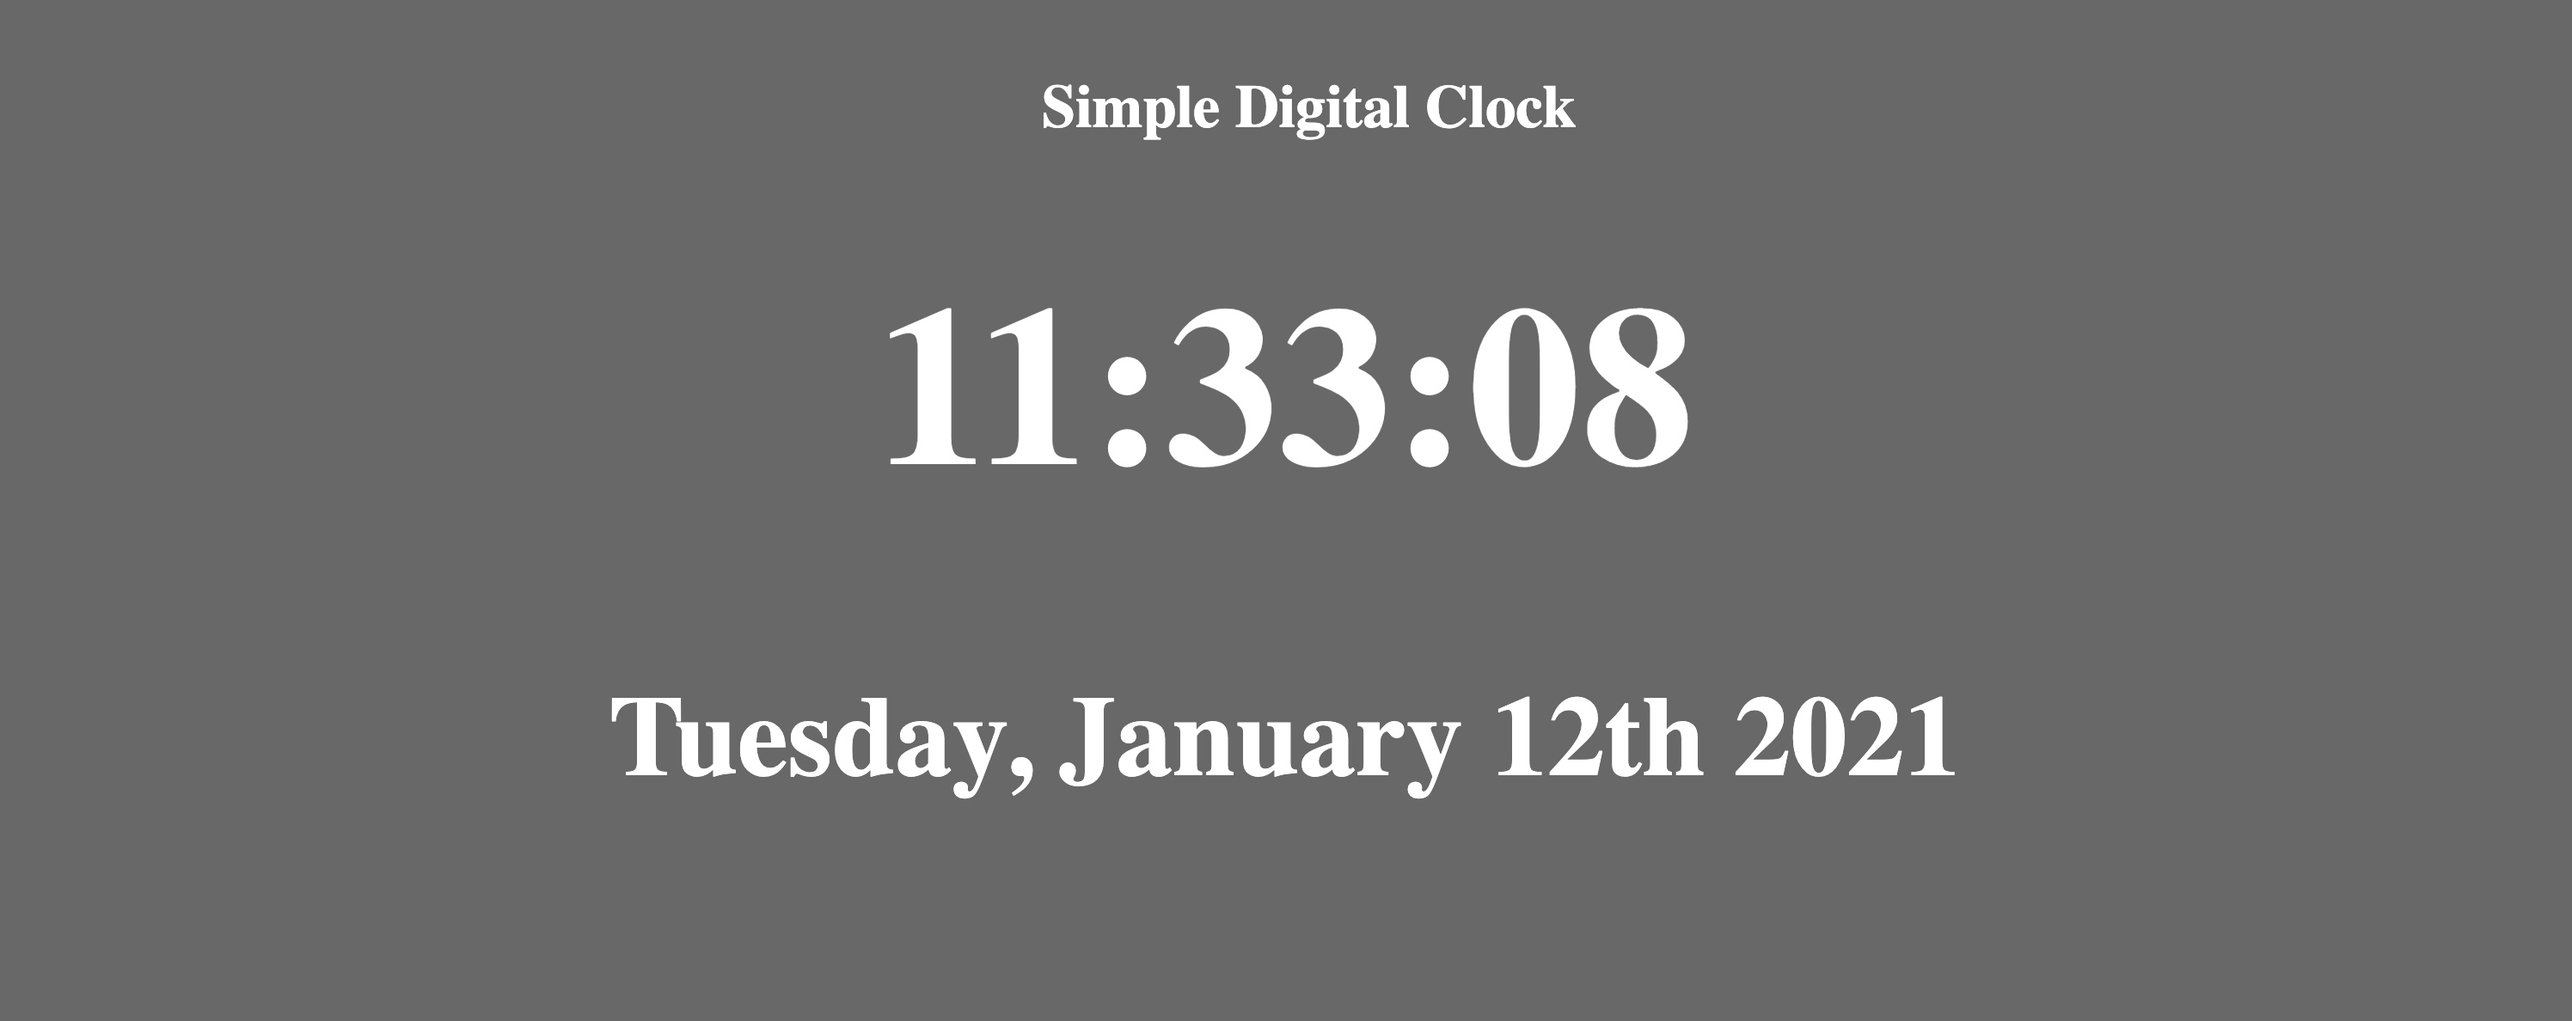
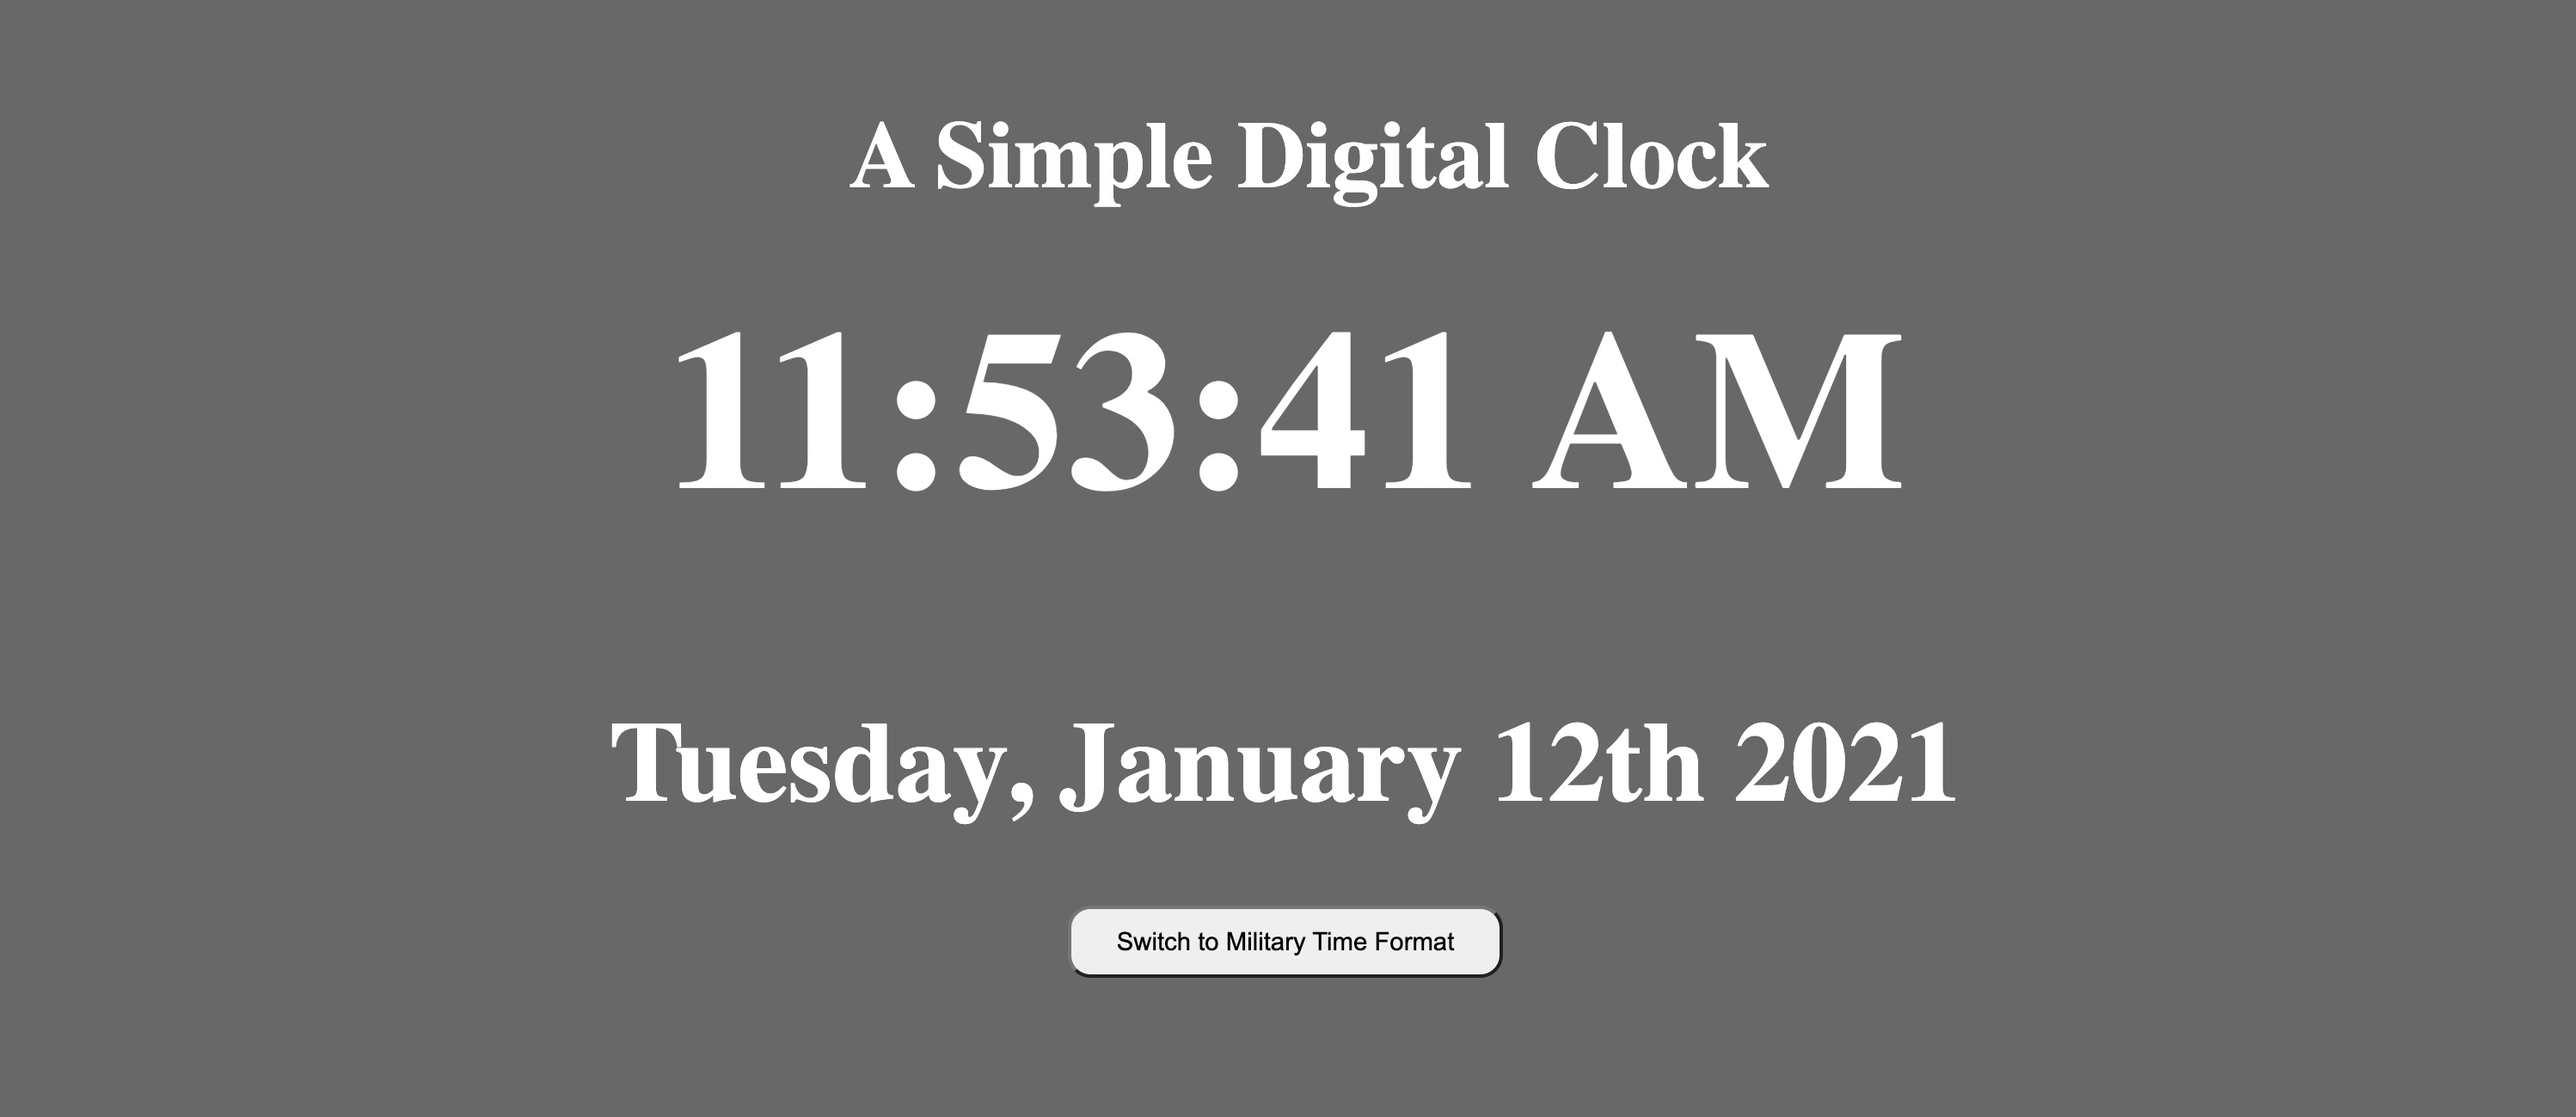
Updates screenshot for toggle button and adds toggle button functionality

diff --git a/index.html b/index.html
@@ -9,11 +9,11 @@
 <body>
     <div class="title-container">
         <h1>A Simple Digital Clock</h1>
-        <button id="toggle-btn">Military Time Format</button>
     </div>
     <div class="clock-container">
         <h1 id="time-display"></h1>
         <h1 id="date-display"></h1>
+        <button id="toggle-btn">Switch to Military Time Format</button>
     </div>
 
     <script src="date-utility.js"></script>

diff --git a/script.js b/script.js
@@ -29,8 +29,8 @@ toggleButton.addEventListener('click', function(e) {
   isMilitaryTime = !isMilitaryTime;
 
   this.textContent = isMilitaryTime 
-    ? 'Standard Time Format'
-    : 'Military Time Format'
+    ? 'Switch to Standard Time Format'
+    : 'Switch to Military Time Format'
   
   
   displayClock();

diff --git a/style.css b/style.css
@@ -25,4 +25,16 @@ body {
     margin: auto;
     text-align: center;
     padding-top: 20px;
+    font-size: 25px;
+}
+
+#toggle-btn {
+    padding: 10px 24px;
+    border-radius: 12px;
+    transition-duration: 0.4s;
+}
+
+#toggle-btn:hover {
+    background-color: lightgrey;
+    cursor: pointer;
 }
